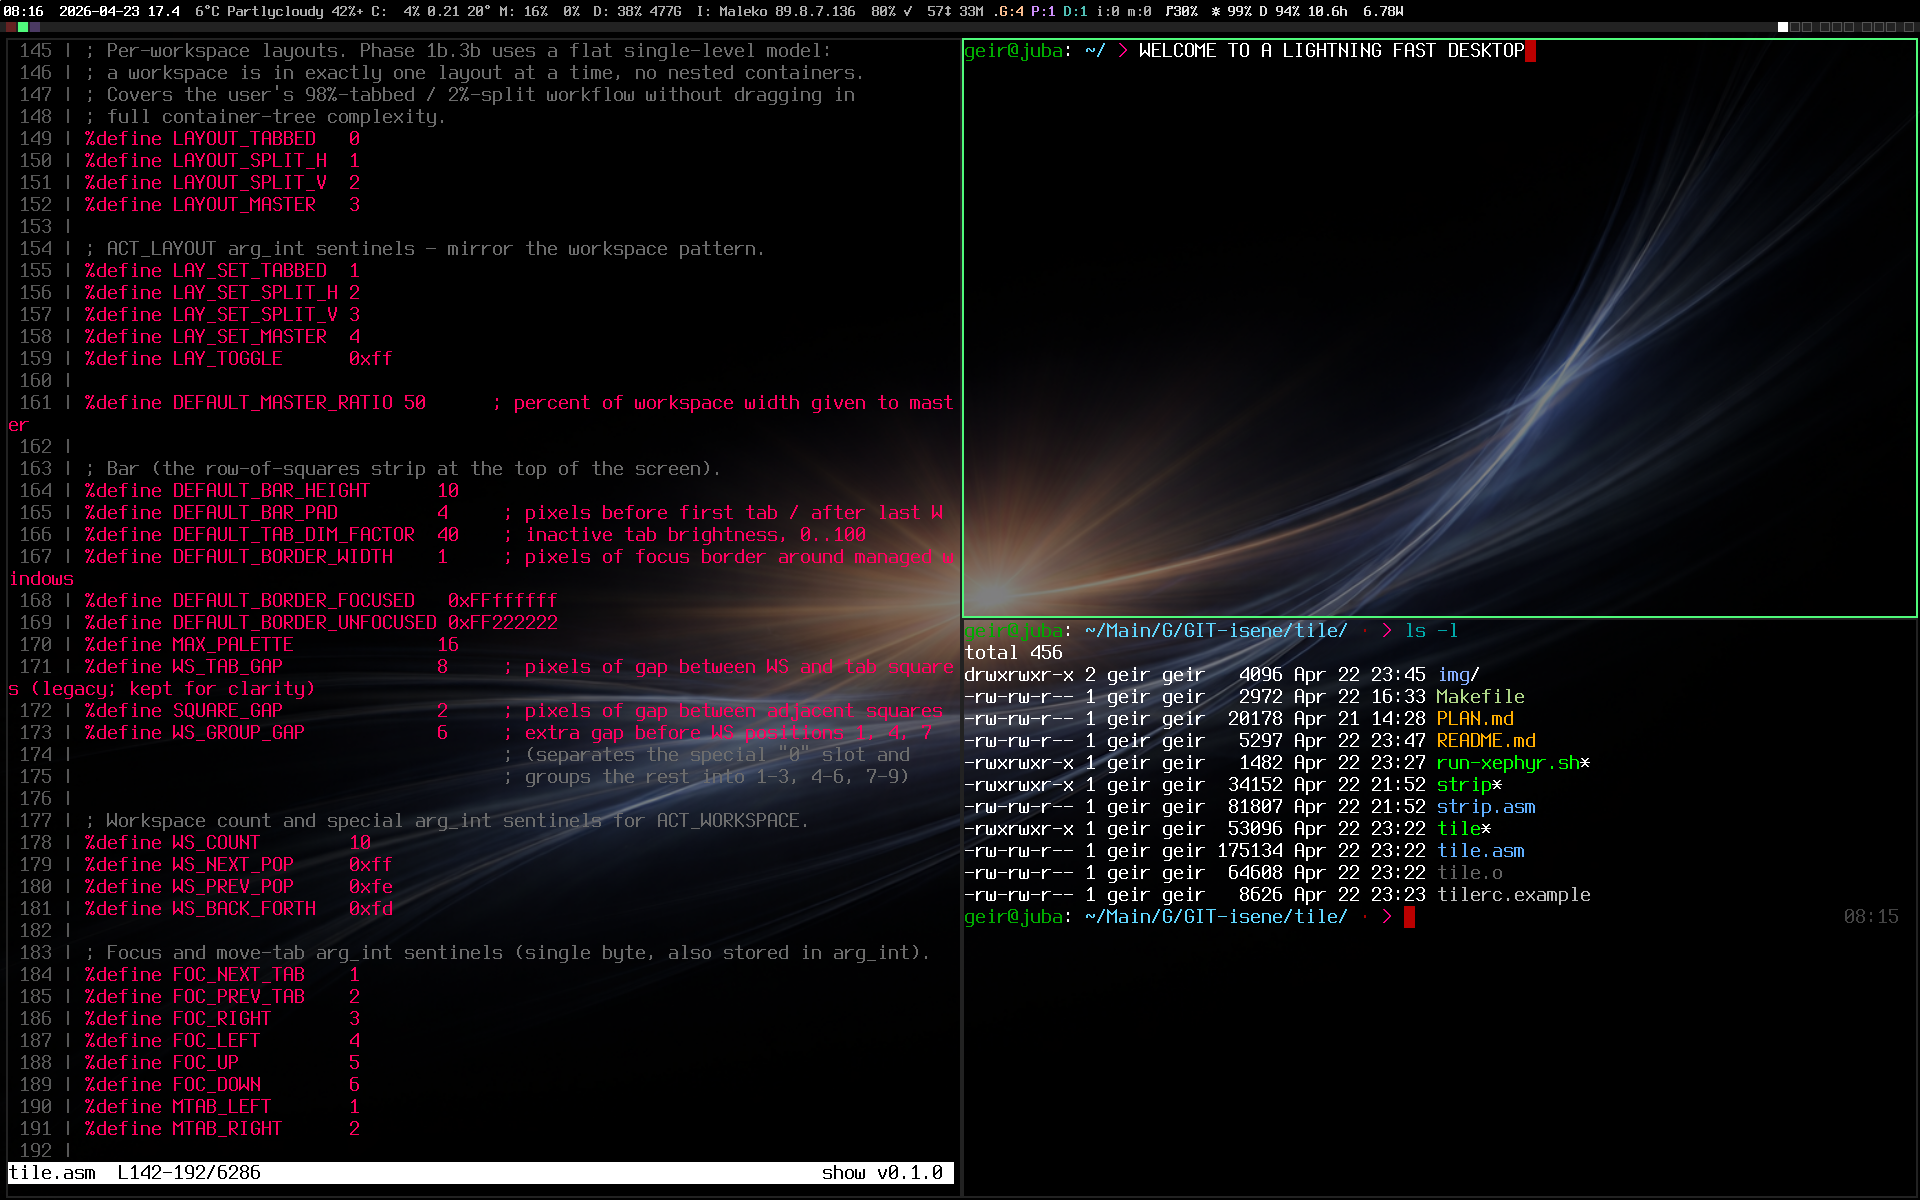
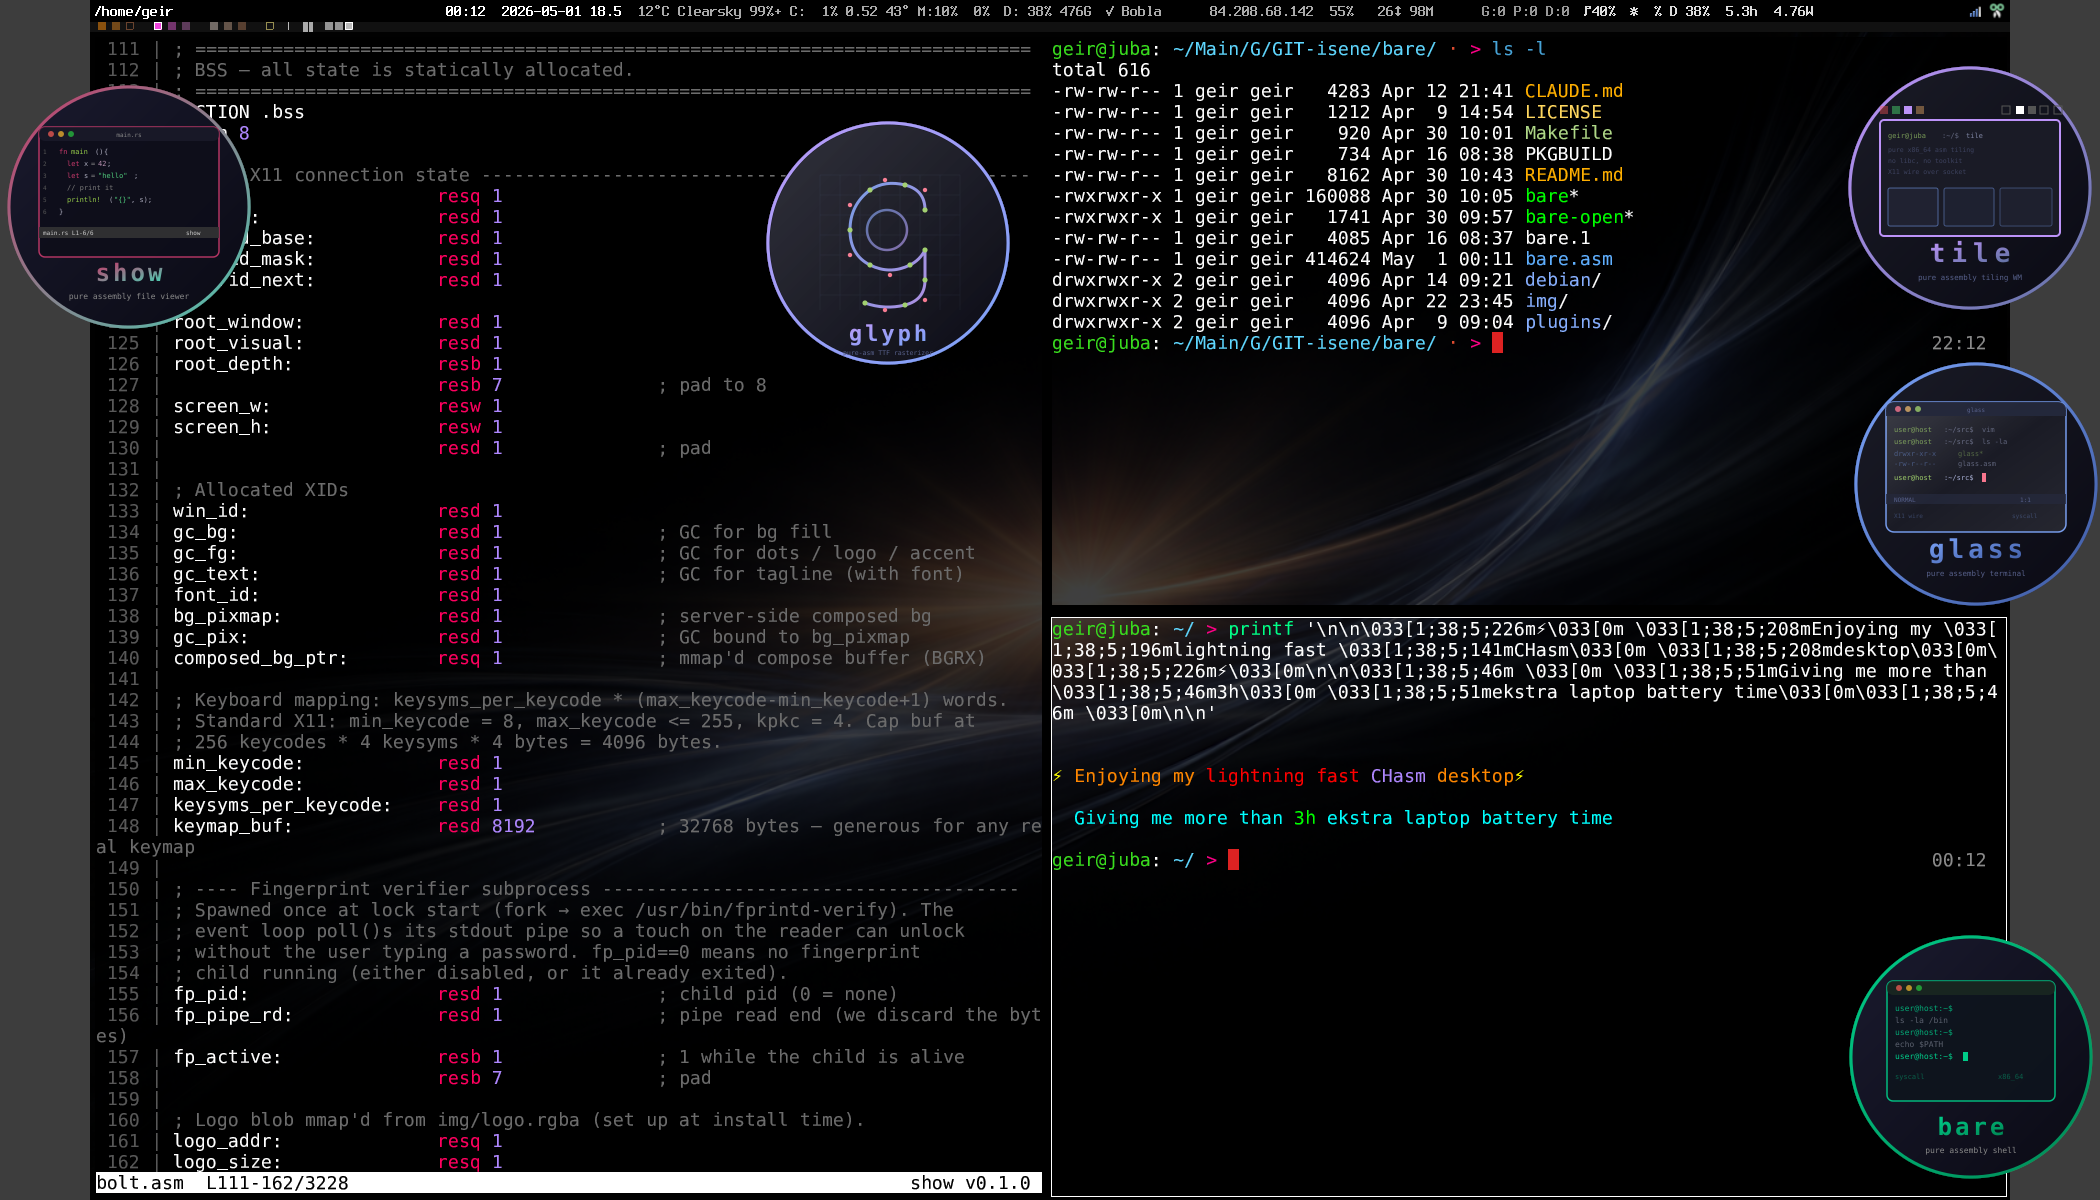
New post: A desktop that bends to me
Reflective follow-up to the bare/CHasm post: the asm + Rust stacks
together (CHasm + Fe2O3), Firefox as the only regular GUI, three hours
of extra battery, and the agency-vs-authorship framing. Closes on a
tease about replacing VIM next.

Also tightens the prior MyTools post wording (asmites/chasm-bits) and
swaps in the same wider screenshot for both posts.

diff --git a/_posts/2026-05-01-Agency.md b/_posts/2026-05-01-Agency.md
@@ -1,0 +1,43 @@
+---
+layout: post
+comments: true
+title: A desktop that bends to me
+image: /assets/posts/chasm-desktop.png
+tags: [Geekery, Technology]
+---
+
+![My desktop, the assembly side](/assets/posts/chasm-desktop.png)
+
+Three weeks ago I posted about [bare](https://isene.org/2026/04/Bare.html), my login shell in pure x86_64 assembly. It was the start of a sprint. Now the whole stack is mine.
+
+[bare](https://github.com/isene/bare) is the shell. [glass](https://github.com/isene/glass) is the terminal emulator. [tile](https://github.com/isene/tile) is the window manager. [strip](https://github.com/isene/strip) is the bar. [show](https://github.com/isene/show) is the file viewer. [bolt](https://github.com/isene/bolt) is the screen locker. All in x86_64 assembly. Single static binaries with no libc or any bloat and with minimum CPU cycles. Built with [Claude Code](https://claude.com/claude-code) over a few evenings. The [CHasm](https://github.com/isene/chasm) suite.
+
+The Rust side, [Fe2O3](https://github.com/isene/fe2o3), absorbed almost every other tool in my daily use. [RTFM](https://github.com/isene/RTFM) became [pointer](https://github.com/isene/pointer) and then the rest of my Ruby tools became fresh and rusty; [kastrup](https://github.com/isene/kastrup), [tock](https://github.com/isene/tock), [astro](https://github.com/isene/astro), [scroll](https://github.com/isene/scroll), [watchit](https://github.com/isene/watchit). Each is a static binary, snappy like a rattlesnake and uses memory I can count on one hand.
+
+The only GUI program I regularly run now is Firefox.
+
+![My desktop, the Rust side](/assets/posts/fe2o3-desktop.png)
+
+A laptop on full battery now lasts more than three hours longer than it used to. The fan is mostly silent. Cold-start times are gone since everything is already warm by the time my finger leaves the Enter key.
+
+I had a chat with Claude about the typical pushback when I tell people that I built my daily-driver tools with AI. The pushback comes in flavours: "I don't trust AI code", "yeah, it can prototype, but how do you maintain it?", "what's the fun in that?", "but, but you didn't actually *make* it!".
+
+These all miss the same mark.
+
+I never wrote kitty. I never wrote i3, or zsh, or vim, or Firefox. I ran them for years and never asked who wrote them or how. I cared whether they worked, whether they fit how I think, whether I could lean on them. The authorship question never came up because I had no alternative.
+
+But I got tired of subtly adapting to how applications work. Someone wrote it a specific way, and it may be highly configurable, like the i3 window manager. But it was never *exactly* like I wanted it. Almost, but not on the mark.
+
+What changed is not who writes the code. It is who has agency.
+
+For three decades the tool was the fixed point and I adapted to it. I learned its quirks, accepted its compromises, built habits around its limitations. Now the tool bends to me. When tile annoys me I describe the annoyance and tile changes. When glass needs a sequence it does not handle, it gets one before the tea water boils.
+
+And when it comes to maintenance... we have done lots. Five bolt bugs found via diagnostic logs I cannot read on my own (machine code), patched, retested, committed, tagged, all in a short stint. The loop is tighter than most teams manage with a full-time engineer on payroll. I read the symptoms. Claude reads the code. We converge.
+
+The "but you didn't make it" critique falls apart the moment you remember most people are running thirty years of code they didn't write either. They just had no agency over it. What changed isn't the authorship question, it's the agency question.
+
+This is not me telling you to do the same (you could if you just clone the repos for inspiration and let Claude Code go at it to make it how *you* want it). The point here is that it fits one shape, mine. If your shape is different, build differently. Or do not build at all and use what works.
+
+I am writing this down because the transition has been strange and the strangeness deserves a note. I have been a tweaker since 1999. The tweaking has finally caught up with the tools. There is nothing left to compromise on. That is a quiet kind of luxury.
+
+The next quirk will surface. It looks like it's going to be replacing my most beloved tool of all: VIM. Time for a better text editor. For me.

diff --git a/_posts/2026-04-23-MyTools.md b/_posts/2026-04-23-MyTools.md
@@ -26,10 +26,10 @@ This makes my window/terminal/shell experience lightning fast with no wasted CPU
 
 ![The whole CHasm stack in one frame](/assets/posts/chasm-desktop.png)
 
-The whole stack in a single screen: **tile** holding the layout, **strip** + **chasm-bits** along the top status row, **glass** in every pane (with pseudo-transparency picking up the wallpaper), **bare** behind every prompt, and **show** rendering syntax-highlighted source in the left and bottom-right panes. Every binary in that picture is pure x86_64 assembly talking straight to the kernel and the X server. No libc, no toolkit, nothing in between.
+The whole stack in a single screen: **tile** holding the layout, **strip** + **asmites** (the per-segment programs in [chasm-bits](https://github.com/isene/chasm-bits)) along the top status row, **glass** in every pane (with pseudo-transparency picking up the wallpaper), **bare** behind every prompt, and **show** rendering syntax-highlighted source in the left and bottom-right panes. Every binary in that picture is pure x86_64 assembly talking straight to the kernel and the X server. No libc, no toolkit, nothing in between.
 
 My central apps like [pointer](https://github.com/isene/pointer), [kastrup](https://github.com/isene/kastrup), [tock](https://github.com/isene/tock) and [nova](https://github.com/isene/nova) can stay as single-binary executables written in Rust. They are fast enough (for now).
 
-From what I can research, nobody has previously built shell, terminal emulator, and window manager in pure x86_64 Linux assembly.
+From what I can research, nobody has previously built shell, terminal emulator, and window manager in pure x86_64 Linux assembly. And it was done in about two weeks.
 
 This is a whole new world where I command my own environment in ways that was completely out of reach back in 2025. I foresee the death of software as we know it where people use general purpose apps. I expect AI to craft tailor-made solutions for anyone with the imagination to ask for it.